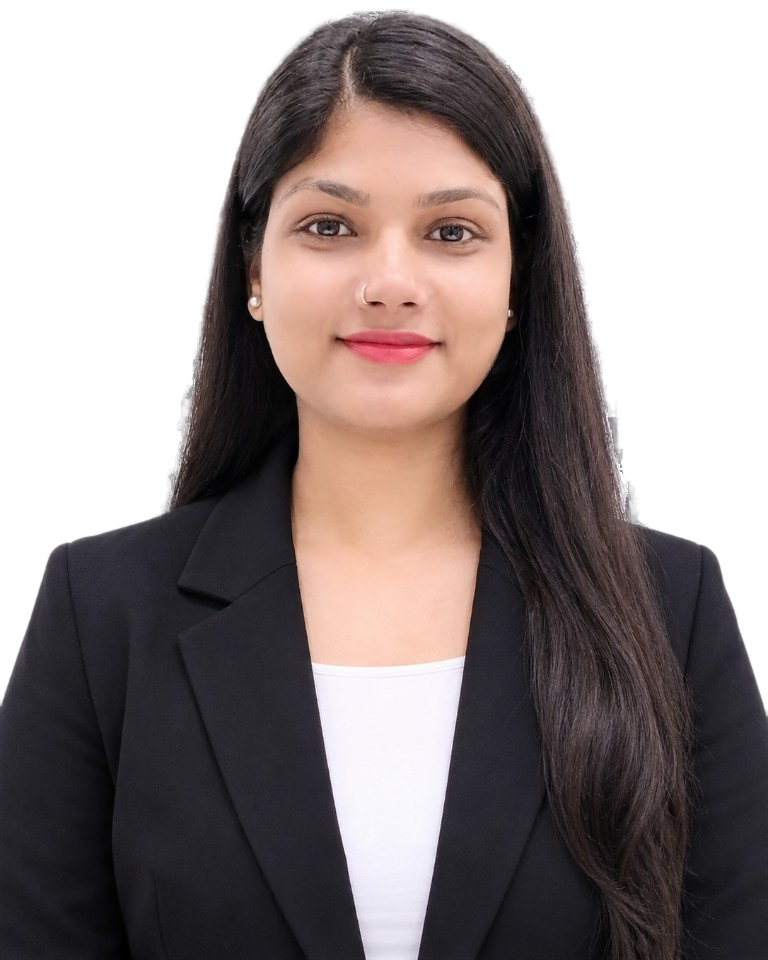
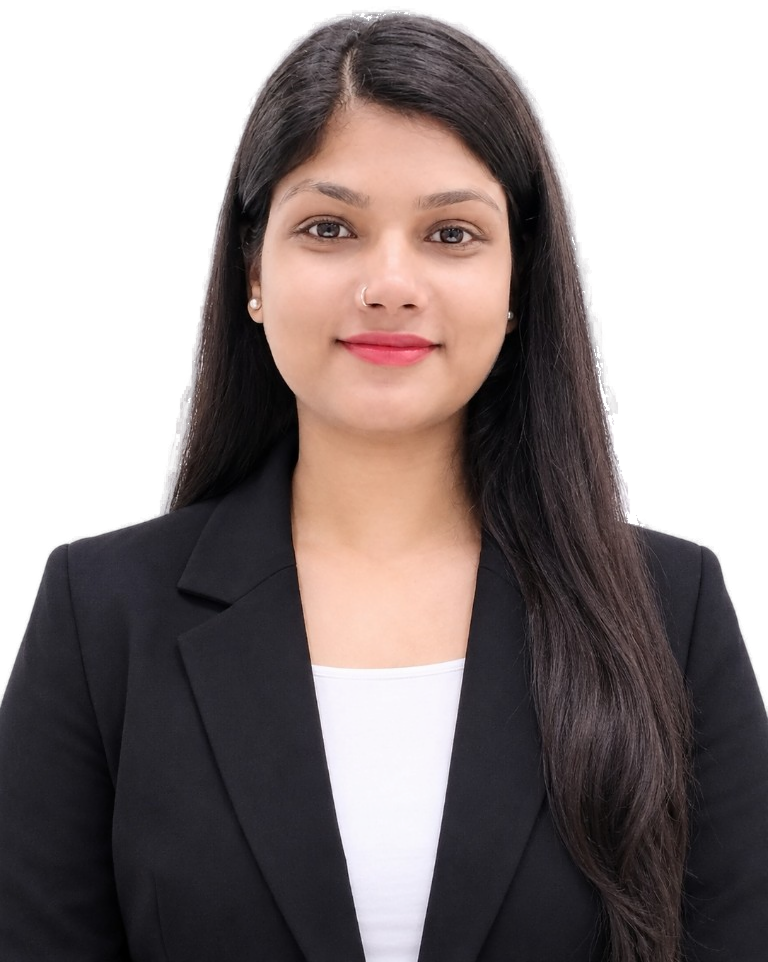
Polish the hero to match the premium reference layout.
Use a clean cutout portrait on a soft peach circle, two CTAs, and Python Backend Developer branding.

diff --git a/frontend/src/components/home/HeroSection.tsx b/frontend/src/components/home/HeroSection.tsx
@@ -1,5 +1,5 @@
 import { motion, useScroll, useTransform, type MotionValue } from "framer-motion";
-import { ArrowUpRight, Download, GraduationCap, Layers, Mail, Quote } from "lucide-react";
+import { ArrowUpRight, GraduationCap, Mail, Quote } from "lucide-react";
 import HashLink from "@/components/common/HashLink";
 import Magnetic from "@/components/effects/Magnetic";
 import SplitText from "@/components/effects/SplitText";
@@ -8,7 +8,6 @@ import { useInteractiveMotion } from "@/hooks/useInteractiveMotion";
 import { useMouseParallax } from "@/hooks/useMouseParallax";
 import type { Education, Profile, Resume, Skill, SocialLink } from "@/types/portfolio";
 import { formatYearRange } from "@/utils/format";
-import { mediaUrl } from "@/utils/mediaUrl";
 import { socialIcon, sortedSocials } from "@/utils/social";
 
 type Props = {
@@ -20,14 +19,12 @@ type Props = {
   projectCount: number;
 };
 
-/** Default cutout portrait (transparent backdrop). Replaced when an owner upload exists. */
+/** Transparent cutout portrait. Replaced when an owner upload exists. */
 const FALLBACK_PORTRAIT = "/images/pooja-portrait.webp";
 
 const BADGE_SLOTS = [
-  { style: { top: "8%", left: "8%" }, depth: 22, delay: "0s" },
-  { style: { top: "14%", right: "6%" }, depth: -18, delay: "1.2s" },
-  { style: { top: "58%", left: "4%" }, depth: 16, delay: "2s" },
-  { style: { top: "66%", right: "4%" }, depth: -24, delay: "0.6s" },
+  { style: { top: "22%", left: "18%" }, depth: 18, delay: "0s" },
+  { style: { top: "18%", right: "16%" }, depth: -16, delay: "1.1s" },
 ] as const;
 
 function FloatingBadge({
@@ -52,7 +49,7 @@ function FloatingBadge({
       transition={{ delay: 1, type: "spring", stiffness: 180, damping: 16 }}
     >
       <div className="animate-float" style={{ animationDelay: slot.delay }}>
-        <span className="glass-panel inline-flex items-center gap-2 rounded-full px-3.5 py-1.5 text-xs font-semibold">
+        <span className="glass-panel inline-flex items-center gap-2 rounded-full px-3.5 py-1.5 text-xs font-semibold shadow-sm">
           <span className="h-1.5 w-1.5 rounded-full bg-accent" aria-hidden />
           {label}
         </span>
@@ -69,9 +66,7 @@ export default function HeroSection({
   profile,
   skills,
   socialLinks,
-  resume,
   education,
-  projectCount,
 }: Props) {
   const interactive = useInteractiveMotion();
   const { x: px, y: py } = useMouseParallax(interactive);
@@ -80,42 +75,33 @@ export default function HeroSection({
 
   const photoX = useTransform(px, (v) => v * 8);
   const photoY = useTransform(py, (v) => v * 5);
-  const discX = useTransform(px, (v) => v * -14);
-  const discY = useTransform(py, (v) => v * -8);
+  const discX = useTransform(px, (v) => v * -12);
+  const discY = useTransform(py, (v) => v * -7);
 
   const fullName = profile?.name ?? SITE.name;
   const firstName = fullName.split(" ")[0];
-  const roles = (profile?.designation ?? SITE.headline)
-    .split("|")
-    .map((s) => s.trim())
-    .filter(Boolean);
-  const role = roles[0] ?? "Python Backend Developer";
-  // Badges: Python + FastAPI first (when they appear in the headline or skills), then other real skills.
-  const headline = profile?.designation ?? SITE.headline;
+  // Hero title matches the premium reference layout.
+  const role = "Python Backend Developer";
+
   const skillNames = skills.map((s) => s.name);
-  const core = ["Python", "FastAPI"].filter(
-    (t) =>
-      headline.toLowerCase().includes(t.toLowerCase()) ||
-      skillNames.some((n) => n.toLowerCase() === t.toLowerCase()),
-  );
+  const has = (name: string) => skillNames.some((n) => n.toLowerCase() === name.toLowerCase());
   const badges = [
-    ...core,
-    ...skillNames.filter((n) => !core.some((c) => c.toLowerCase() === n.toLowerCase())),
+    has("FastAPI") ? "FastAPI" : "Python",
+    "Full Stack Developer",
   ].slice(0, BADGE_SLOTS.length);
+
   const socials = sortedSocials(socialLinks);
   const edu = education[0];
-
   const portrait = profile?.profile_image_url ?? FALLBACK_PORTRAIT;
-  // Uploaded photos with white backdrops melt into the peach disc; cutouts stay sharp.
   const portraitBlend = profile?.profile_image_url ? "mix-blend-multiply" : "";
 
   const iconBtn =
-    "flex h-10 w-10 items-center justify-center rounded-full border border-border text-muted transition duration-300 hover:-translate-y-1 hover:border-accent/60 hover:bg-accent/10 hover:text-foreground";
+    "flex h-10 w-10 items-center justify-center rounded-full border border-border bg-white/70 text-muted transition duration-300 hover:-translate-y-1 hover:border-accent/60 hover:bg-accent/10 hover:text-foreground";
 
   const quote = (
-    <div className="max-w-xs">
+    <div className="max-w-[15rem]">
       <Quote className="h-7 w-7 fill-accent text-accent" aria-hidden />
-      <p className="mt-3 text-sm leading-relaxed text-foreground/80">
+      <p className="mt-3 text-sm leading-relaxed text-muted">
         I build scalable backend systems, modern applications and meaningful digital experiences.
       </p>
       {socials.length > 0 || profile?.email ? (
@@ -146,12 +132,12 @@ export default function HeroSection({
   );
 
   const stats = (
-    <div className="space-y-5">
+    <div>
       {edu ? (
         <div>
           <div className="flex items-center gap-2 lg:justify-end">
             <GraduationCap className="h-5 w-5 text-accent" aria-hidden />
-            <p className="font-display text-3xl font-extrabold leading-none md:text-4xl">
+            <p className="font-display text-3xl font-extrabold leading-none text-foreground md:text-4xl">
               {degreeShort(edu.degree)}
             </p>
           </div>
@@ -160,42 +146,17 @@ export default function HeroSection({
           </p>
         </div>
       ) : null}
-      {projectCount > 0 ? (
-        <div>
-          <div className="flex items-center gap-2 lg:justify-end">
-            <Layers className="h-5 w-5 text-accent" aria-hidden />
-            <p className="font-display text-3xl font-extrabold leading-none md:text-4xl">
-              {projectCount}
-            </p>
-          </div>
-          <p className="mt-1.5 text-xs font-medium text-muted">Projects published</p>
-        </div>
-      ) : null}
     </div>
   );
 
   return (
-    <section className="relative overflow-hidden">
-      <div className="mx-auto max-w-6xl px-4 pt-6 text-center sm:pt-8 md:px-6 md:pt-10">
-        <motion.span
-          initial={{ opacity: 0, y: 10 }}
-          animate={{ opacity: 1, y: 0 }}
-          transition={{ duration: 0.5 }}
-          className="glass-panel inline-flex items-center gap-2.5 rounded-full px-4 py-1.5 text-xs font-semibold"
-        >
-          <span className="relative flex h-2 w-2" aria-hidden>
-            <span className="absolute inset-0 animate-ping-slow rounded-full bg-emerald-500" />
-            <span className="relative h-2 w-2 rounded-full bg-emerald-500" />
-          </span>
-          Open to opportunities
-        </motion.span>
-
-        <div className="relative mt-6">
-          {/* Hand-drawn accent strokes */}
+    <section className="relative overflow-hidden pb-4">
+      <div className="mx-auto max-w-6xl px-4 pt-8 text-center sm:pt-10 md:px-6 md:pt-12">
+        <div className="relative">
           <svg
             aria-hidden
             viewBox="0 0 60 50"
-            className="pointer-events-none absolute -top-2 left-[6%] hidden h-14 w-16 text-accent lg:block"
+            className="pointer-events-none absolute -top-1 left-[8%] hidden h-12 w-14 text-accent lg:block"
             fill="none"
             stroke="currentColor"
             strokeWidth="2.5"
@@ -218,7 +179,7 @@ export default function HeroSection({
             />
           </svg>
 
-          <h1 className="mx-auto max-w-4xl font-display text-[1.85rem] font-extrabold leading-[1.12] tracking-tight sm:text-4xl md:text-5xl lg:text-6xl">
+          <h1 className="mx-auto max-w-3xl font-display text-[2rem] font-extrabold leading-[1.1] tracking-tight text-foreground sm:text-5xl md:text-6xl">
             <SplitText
               text={`I'm ${firstName},`}
               highlight={[firstName]}
@@ -226,138 +187,114 @@ export default function HeroSection({
               delay={0.1}
               className="block"
             />
-            <SplitText text={role} whenInView={false} delay={0.3} className="block" />
+            <SplitText text={role} whenInView={false} delay={0.28} className="block" />
           </h1>
         </div>
 
-        {/* Portrait stage — cutout stands on the peach disc (no white box) */}
-        <div className="relative mx-auto mt-6 w-full max-w-5xl overflow-x-clip sm:mt-8">
-          <div className="relative mx-auto h-[22rem] w-full max-w-[22rem] sm:h-[28rem] sm:max-w-[28rem] lg:h-[34rem] lg:max-w-5xl">
+        {/* Portrait stage */}
+        <div className="relative mx-auto mt-8 w-full max-w-5xl overflow-x-clip">
+          <div className="relative mx-auto h-[23rem] w-full max-w-[24rem] sm:h-[30rem] sm:max-w-[30rem] lg:h-[34rem] lg:max-w-5xl">
             <div className="absolute inset-0">
-              {/* Peach semi-circle pedestal behind the portrait */}
-              <div className="absolute bottom-0 left-1/2 w-[min(36rem,96%)] -translate-x-1/2">
+              {/* Soft peach circle behind the cutout */}
+              <div className="absolute bottom-[-8%] left-1/2 w-[min(34rem,92%)] -translate-x-1/2">
                 <motion.div
                   style={{ x: discX, y: discY }}
-                  initial={{ scale: 0.85, opacity: 0 }}
+                  initial={{ scale: 0.78, opacity: 0 }}
                   animate={{ scale: 1, opacity: 1 }}
-                  transition={{ duration: 0.9, delay: 0.2, ease: [0.22, 1, 0.36, 1] }}
-                  className="relative aspect-[2/1] w-full"
+                  transition={{ duration: 0.9, delay: 0.15, ease: [0.22, 1, 0.36, 1] }}
+                  className="relative aspect-square w-full"
                 >
-                  <div className="absolute inset-0 overflow-hidden rounded-t-full bg-[rgb(var(--c-peach))]" />
+                  <div className="absolute inset-0 rounded-full bg-[rgb(var(--c-peach))]" />
                   <div
                     aria-hidden
-                    className="pointer-events-none absolute inset-0 rounded-t-full border border-b-0 border-accent/25"
+                    className="pointer-events-none absolute -inset-[3%] rounded-full border border-accent/20"
                   />
                 </motion.div>
               </div>
 
-              {/* Transparent cutout portrait */}
-              <div className="absolute bottom-0 left-1/2 z-[1] h-[96%] -translate-x-1/2">
+              {/* Cutout portrait with clear hair silhouette */}
+              <div className="absolute bottom-0 left-1/2 z-[1] h-[97%] -translate-x-1/2">
                 <motion.img
                   src={portrait}
                   alt={`Portrait of ${fullName}`}
                   width={768}
-                  height={964}
+                  height={962}
                   loading="eager"
                   style={{ x: photoX, y: photoY }}
-                  initial={{ opacity: 0, y: 50 }}
+                  initial={{ opacity: 0, y: 40 }}
                   animate={{ opacity: 1, y: 0 }}
-                  transition={{ duration: 0.9, delay: 0.35, ease: [0.22, 1, 0.36, 1] }}
-                  className={`h-full w-auto max-w-none select-none object-contain object-bottom ${portraitBlend}`}
+                  transition={{ duration: 0.9, delay: 0.3, ease: [0.22, 1, 0.36, 1] }}
+                  className={`h-full w-auto max-w-none select-none object-contain object-bottom drop-shadow-[0_18px_28px_rgba(43,27,24,0.12)] ${portraitBlend}`}
                   draggable={false}
                 />
               </div>
             </div>
 
-            {/* Gently floating decorative circles */}
+            {/* Soft decorative dots */}
             <div
               aria-hidden
-              className="absolute left-[27%] top-[42%] hidden h-5 w-5 animate-float rounded-full bg-accent-2 lg:block"
+              className="absolute left-[28%] top-[44%] hidden h-4 w-4 animate-float rounded-full bg-accent-2 lg:block"
             />
             <div
               aria-hidden
-              className="absolute right-[26%] top-[14%] hidden h-9 w-9 animate-float rounded-full border-2 border-accent/50 lg:block"
-              style={{ animationDelay: "1.4s" }}
-            />
-            <div
-              aria-hidden
-              className="absolute right-[31%] top-[48%] hidden h-3 w-3 animate-float rounded-full bg-accent lg:block"
-              style={{ animationDelay: "0.8s" }}
+              className="absolute right-[27%] top-[16%] hidden h-8 w-8 animate-float rounded-full border-2 border-accent/40 lg:block"
+              style={{ animationDelay: "1.3s" }}
             />
 
-            {/* Floating badges (real skills) */}
             {badges.map((label, i) => (
               <FloatingBadge key={`${label}-${i}`} label={label} slot={BADGE_SLOTS[i]} px={px} py={py} />
             ))}
 
-            {/* Side blocks (desktop) */}
             <motion.div
-              initial={{ opacity: 0, x: -24 }}
+              initial={{ opacity: 0, x: -20 }}
               animate={{ opacity: 1, x: 0 }}
-              transition={{ delay: 0.7, duration: 0.7 }}
-              className="absolute left-0 top-[18%] z-10 hidden text-left lg:block"
+              transition={{ delay: 0.65, duration: 0.65 }}
+              className="absolute left-0 top-[20%] z-10 hidden text-left lg:block"
             >
               {quote}
             </motion.div>
             <motion.div
-              initial={{ opacity: 0, x: 24 }}
+              initial={{ opacity: 0, x: 20 }}
               animate={{ opacity: 1, x: 0 }}
-              transition={{ delay: 0.8, duration: 0.7 }}
-              className="absolute right-0 top-[18%] z-10 hidden text-right lg:block"
+              transition={{ delay: 0.75, duration: 0.65 }}
+              className="absolute right-0 top-[22%] z-10 hidden text-right lg:block"
             >
               {stats}
             </motion.div>
-          </div>
 
-          {/* CTAs live under the portrait — never over the face or blazer */}
-          <motion.div
-            initial={{ opacity: 0, y: 16 }}
-            animate={{ opacity: 1, y: 0 }}
-            transition={{ delay: 0.85, duration: 0.5 }}
-            className="relative z-10 mx-auto mt-6 flex w-full max-w-lg flex-wrap items-center justify-center gap-3 sm:mt-8"
-          >
-            <Magnetic>
-              <HashLink id="projects" className="btn-primary group min-w-[8.5rem]">
-                Portfolio
-                <ArrowUpRight
-                  className="h-4 w-4 transition-transform duration-300 group-hover:-translate-y-0.5 group-hover:translate-x-0.5"
-                  aria-hidden
-                />
-              </HashLink>
-            </Magnetic>
-            <Magnetic>
-              <HashLink id="contact" className="btn-ghost min-w-[8.5rem]">
-                Hire Me
-              </HashLink>
-            </Magnetic>
-            {resume ? (
+            {/* Reference-style CTAs overlapping the lower circle */}
+            <motion.div
+              initial={{ opacity: 0, y: 18 }}
+              animate={{ opacity: 1, y: 0 }}
+              transition={{ delay: 0.85, duration: 0.55 }}
+              className="absolute inset-x-0 bottom-5 z-20 flex flex-wrap items-center justify-center gap-3"
+            >
               <Magnetic>
-                <a
-                  href={mediaUrl(resume.file_url)}
-                  target="_blank"
-                  rel="noopener noreferrer"
-                  className="btn-ghost group min-w-[8.5rem]"
-                >
-                  <Download
-                    className="h-4 w-4 transition-transform duration-300 group-hover:translate-y-0.5"
+                <HashLink id="projects" className="btn-primary group min-w-[9rem] shadow-lg shadow-accent/20">
+                  Portfolio
+                  <ArrowUpRight
+                    className="h-4 w-4 transition-transform duration-300 group-hover:-translate-y-0.5 group-hover:translate-x-0.5"
                     aria-hidden
                   />
-                  Resume
-                </a>
+                </HashLink>
               </Magnetic>
-            ) : null}
-          </motion.div>
+              <Magnetic>
+                <HashLink id="contact" className="btn-ghost min-w-[9rem] !bg-white shadow-md shadow-black/5">
+                  Hire Me
+                </HashLink>
+              </Magnetic>
+            </motion.div>
+          </div>
         </div>
       </div>
 
-      {/* Quote + stats below the stage on tablet / mobile */}
-      <div className="mx-auto grid max-w-xl gap-8 px-4 pb-12 pt-8 text-left sm:grid-cols-2 sm:px-6 lg:hidden">
+      {/* Mobile / tablet supporting content */}
+      <div className="mx-auto grid max-w-xl gap-8 px-4 pb-10 pt-8 text-left sm:grid-cols-2 sm:px-6 lg:hidden">
         {quote}
         <div className="sm:text-right">{stats}</div>
       </div>
 
-      {/* Scroll indicator */}
-      <motion.div style={{ opacity: scrollHint }} className="hidden justify-center pb-6 pt-8 lg:flex">
+      <motion.div style={{ opacity: scrollHint }} className="hidden justify-center pb-4 pt-2 lg:flex">
         <HashLink
           id="about"
           className="flex flex-col items-center gap-2 text-[10px] font-semibold uppercase tracking-label text-muted transition hover:text-foreground"

diff --git a/frontend/src/constants/site.ts b/frontend/src/constants/site.ts
@@ -1,5 +1,5 @@
 export const SITE = {
   name: "Pooja Sharma",
-  headline: "Full-Stack Developer (MERN) | AI/ML Enthusiast",
+  headline: "Python Backend Developer",
   title: "Pooja Sharma | Developer Portfolio",
 } as const;
